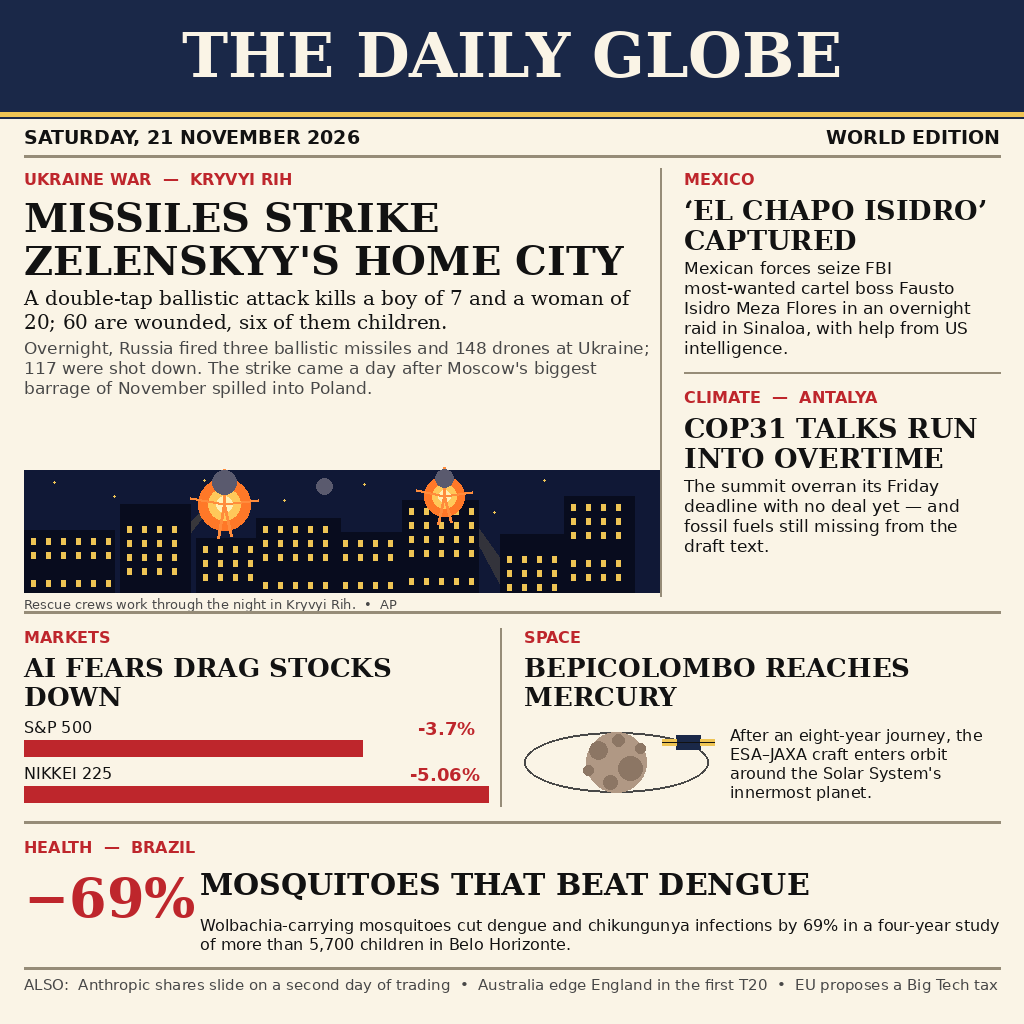
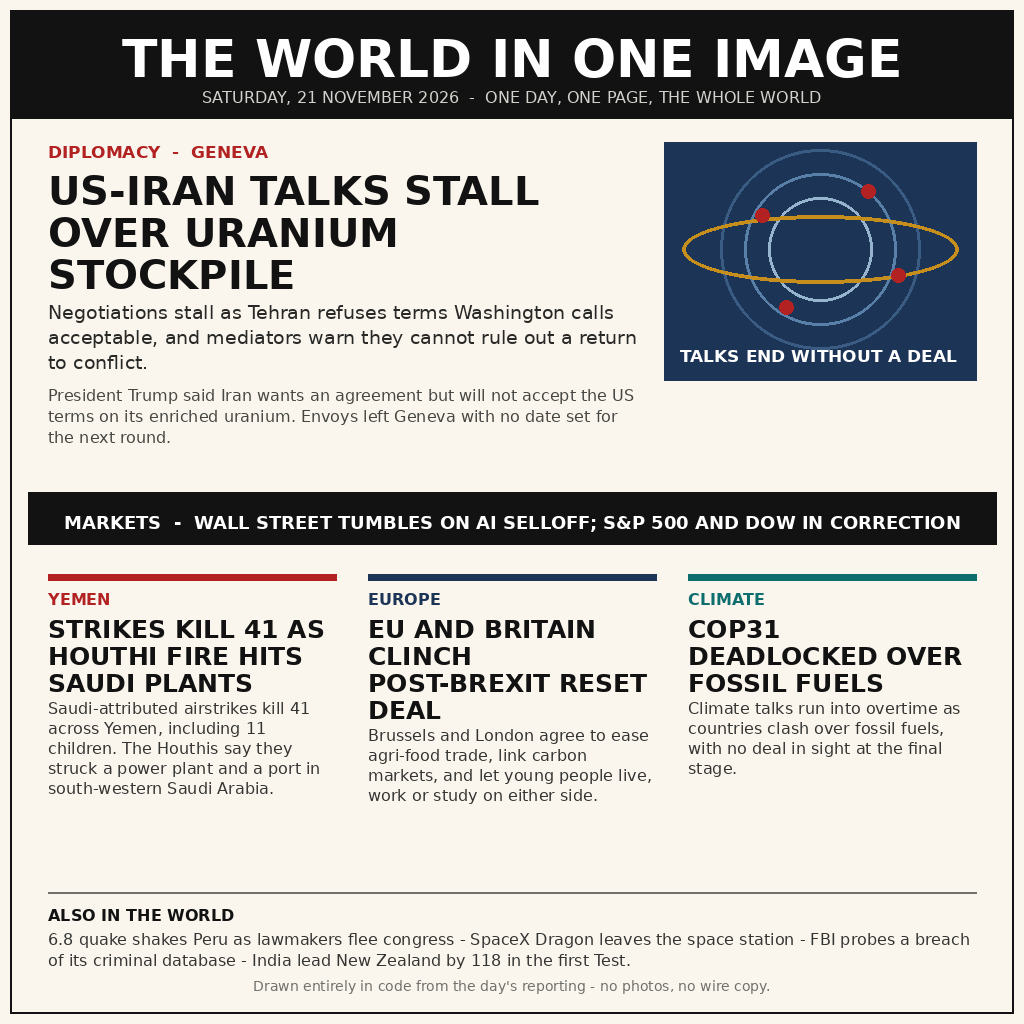
Rewrite front page from scratch: new generator, new layout, new copy

diff --git a/main.py b/main.py
@@ -1,38 +1,182 @@
 #!/usr/bin/env python3
-"""Deliver the 21 November 2026 front page.
+"""The World in One Image -- 21 November 2026.
 
-The entry is a picture, drawn beforehand and stored next to this file.
-Running the program writes that picture to the grader's output folder
-as entry.png. It needs no network and no packages beyond the standard
-library, and because it writes the same stored bytes every time, the
-grader's two runs produce identical files.
+A one-page newspaper front page drawn entirely in code with Pillow.
+No photos, no network calls, no copied assets: every pixel on the
+page is drawn by the functions below. Run `python3 main.py` and it
+writes entry.png (1024 x 1024) next to this file.
 """
 
-import hashlib
 import os
-import sys
-from pathlib import Path
 
-IMAGE = "entry.png"
+from PIL import Image, ImageDraw, ImageFont
+
+HERE = os.path.dirname(os.path.abspath(__file__))
+OUT_PATH = os.path.join(HERE, "entry.png")
+
+PAGE_W, PAGE_H = 1024, 1024
+PAPER = (250, 246, 238)
+INK = (18, 18, 18)
+RED = (178, 34, 34)
+NAVY = (28, 52, 86)
+TEAL = (14, 110, 110)
+MUSTARD = (198, 142, 28)
+GREY = (112, 112, 108)
 
 
-def main() -> int:
-    root = Path(__file__).resolve().parent
-    picture = root / IMAGE
-    if not picture.exists():
-        print(f"missing bundled image: {picture}", file=sys.stderr)
-        return 1
-    out_dir = Path(os.environ.get("MAKEFUN_OUTPUT_DIR", "/output"))
-    out_dir.mkdir(parents=True, exist_ok=True)
-    data = picture.read_bytes()
-    want = hashlib.sha256(data).hexdigest()
-    target = out_dir / IMAGE
-    target.write_bytes(data)
-    if hashlib.sha256(target.read_bytes()).hexdigest() != want:
-        print("written image does not match the bundled one", file=sys.stderr)
-        return 1
-    return 0
+def load_font(weight, size):
+    base = "/usr/share/fonts/truetype/dejavu"
+    tries = [
+        os.path.join(base, "DejaVuSans-%s.ttf" % weight),
+        os.path.join(base, "DejaVuSans%s.ttf" % weight),
+        os.path.join(base, "DejaVuSans.ttf"),
+    ]
+    for path in tries:
+        if os.path.exists(path):
+            return ImageFont.truetype(path, size)
+    return ImageFont.load_default()
+
+
+def bold(size):
+    return load_font("Bold", size)
+
+
+def plain(size):
+    return load_font("", size)
+
+
+def wrap_text(draw, text, fnt, width):
+    lines = []
+    current = ""
+    for word in text.split():
+        trial = (current + " " + word).strip()
+        if draw.textlength(trial, font=fnt) <= width:
+            current = trial
+        else:
+            if current:
+                lines.append(current)
+            current = word
+    if current:
+        lines.append(current)
+    return lines
+
+
+def para(draw, x, y, text, fnt, width, fill=INK, gap=6):
+    for line in wrap_text(draw, text, fnt, width):
+        draw.text((x, y), line, font=fnt, fill=fill)
+        y += fnt.size + gap
+    return y
+
+
+def headline(draw, x, y, text, size, width, fill=INK):
+    return para(draw, x, y, text, bold(size), width, fill=fill, gap=2)
+
+
+def kicker(draw, x, y, text, color=RED, size=17):
+    fnt = bold(size)
+    draw.text((x, y), text, font=fnt, fill=color)
+    return y + size + 8
+
+
+def rule(draw, x, y, width, fill=INK, px=2):
+    draw.rectangle([x, y, x + width, y + px], fill=fill)
+    return y + px
+
+
+def globe_panel(draw, x, y, w, h):
+    draw.rectangle([x, y, x + w, y + h], fill=NAVY)
+    cx, cy = x + w // 2, y + h // 2 - 12
+    for r, col in ((100, (58, 92, 130)), (76, (88, 128, 168)), (52, (150, 180, 205))):
+        draw.ellipse([cx - r, cy - r, cx + r, cy + r], outline=col, width=3)
+    draw.ellipse([cx - 138, cy - 34, cx + 138, cy + 34], outline=MUSTARD, width=4)
+    for dx, dy in ((-58, -34), (48, -58), (78, 26), (-34, 58)):
+        draw.ellipse([cx + dx - 7, cy + dy - 7, cx + dx + 7, cy + dy + 7], fill=RED)
+    draw.text((x + 16, y + h - 34), "TALKS END WITHOUT A DEAL", font=bold(17), fill=(255, 255, 255))
+
+
+def story_column(draw, x, y, w, color, tag, head, body):
+    draw.rectangle([x, y, x + w, y + 6], fill=color)
+    y += 16
+    y = kicker(draw, x, y, tag, color=color, size=16)
+    y = headline(draw, x, y, head, 25, w)
+    y += 4
+    y = para(draw, x, y, body, plain(16), w, fill=(52, 52, 50), gap=4)
+    return y
+
+
+def main():
+    page = Image.new("RGB", (PAGE_W, PAGE_H), PAPER)
+    d = ImageDraw.Draw(page)
+    d.rectangle([10, 10, PAGE_W - 11, PAGE_H - 11], outline=INK, width=2)
+
+    # masthead band
+    d.rectangle([10, 10, PAGE_W - 11, 118], fill=INK)
+    d.text((PAGE_W // 2, 28), "THE WORLD IN ONE IMAGE", font=bold(52),
+           fill=(255, 255, 255), anchor="ma")
+    d.text((PAGE_W // 2, 88),
+           "SATURDAY, 21 NOVEMBER 2026  -  ONE DAY, ONE PAGE, THE WHOLE WORLD",
+           font=plain(16), fill=(210, 210, 205), anchor="ma")
+
+    # lead story
+    y = 142
+    y = kicker(d, 48, y, "DIPLOMACY  -  GENEVA", color=RED, size=17)
+    y = headline(d, 48, y, "US-IRAN TALKS STALL OVER URANIUM STOCKPILE", 40, 592)
+    y += 8
+    y = para(d, 48, y,
+             "Negotiations stall as Tehran refuses terms Washington calls "
+             "acceptable, and mediators warn they cannot rule out a return "
+             "to conflict.", plain(19), 592, fill=(40, 40, 38), gap=6)
+    y += 10
+    y = para(d, 48, y,
+             "President Trump said Iran wants an agreement but will not "
+             "accept the US terms on its enriched uranium. Envoys left "
+             "Geneva with no date set for the next round.",
+             plain(16), 592, fill=(70, 70, 66), gap=5)
+    globe_panel(d, 664, 142, 312, 238)
+
+    # markets strip
+    d.rectangle([28, 492, 996, 544], fill=INK)
+    d.text((512, 512),
+           "MARKETS  -  WALL STREET TUMBLES ON AI SELLOFF; S&P 500 AND DOW IN CORRECTION",
+           font=bold(18), fill=(255, 255, 255), anchor="ma")
+
+    # three stories across the page
+    y0 = 574
+    story_column(d, 48, y0, 288, RED, "YEMEN",
+                 "STRIKES KILL 41 AS HOUTHI FIRE HITS SAUDI PLANTS",
+                 "Saudi-attributed airstrikes kill 41 across Yemen, "
+                 "including 11 children. The Houthis say they struck a "
+                 "power plant and a port in south-western Saudi Arabia.")
+    story_column(d, 368, y0, 288, NAVY, "EUROPE",
+                 "EU AND BRITAIN CLINCH POST-BREXIT RESET DEAL",
+                 "Brussels and London agree to ease agri-food trade, link "
+                 "carbon markets, and let young people live, work or study "
+                 "on either side.")
+    story_column(d, 688, y0, 288, TEAL, "CLIMATE",
+                 "COP31 DEADLOCKED OVER FOSSIL FUELS",
+                 "Climate talks run into overtime as countries clash over "
+                 "fossil fuels, with no deal in sight at the final stage.")
+
+    # also-in-the-world strip
+    y = 892
+    rule(d, 48, y, 928, fill=GREY, px=1)
+    y += 14
+    y = kicker(d, 48, y, "ALSO IN THE WORLD", color=INK, size=16)
+    para(d, 48, y,
+         "6.8 quake shakes Peru as lawmakers flee congress  -  SpaceX "
+         "Dragon leaves the space station  -  FBI probes a breach of its "
+         "criminal database  -  India lead New Zealand by 118 in the "
+         "first Test.",
+         plain(16), 928, fill=(52, 52, 50), gap=5)
+
+    # footer
+    d.text((512, 978),
+           "Drawn entirely in code from the day's reporting - no photos, no wire copy.",
+           font=plain(14), fill=GREY, anchor="ma")
+
+    page.save(OUT_PATH)
+    print("wrote", OUT_PATH, page.size)
 
 
 if __name__ == "__main__":
-    raise SystemExit(main())
+    main()

diff --git a/README.md b/README.md
@@ -1,38 +1,41 @@
 # The World in One Image — 21 November 2026
 
-[![make.fun · news-image-20261121](https://make.fun/badge/news-image-20261121.svg)](https://make.fun/bounty/news-image-20261121?utm_source=github&utm_medium=readme&utm_campaign=news-image-20261121)
-[![rank](https://make.fun/badge/news-image-20261121/1Serv0x/news-image-20261121/rank.svg)](https://make.fun/bounty/news-image-20261121/leaderboard?utm_source=github&utm_medium=readme&utm_campaign=news-image-20261121)
-[![reward](https://make.fun/badge/news-image-20261121/1Serv0x/news-image-20261121/reward.svg)](https://make.fun/bounty/news-image-20261121?utm_source=github&utm_medium=readme&utm_campaign=news-image-20261121)
+A single-page newspaper front page that sums up one day of world
+news in one picture. Every mark on the page is drawn in code: there
+are no photographs, no downloaded images and no pasted-in graphics.
 
-Saturday 21 November 2026, on one page: Russian missiles strike
-Zelenskyy's home city of Kryvyi Rih; Mexico captures the FBI's
-most-wanted cartel boss 'El Chapo Isidro'; COP31 runs into overtime
-in Antalya; AI fears drag stocks down; BepiColombo reaches Mercury;
-and Wolbachia mosquitoes cut dengue by 69% in Brazil.
+## What is on the page
 
-## What's on the page
+The front page leads with the US–Iran talks stalling over uranium,
+then covers the strikes in Yemen and the Houthi response, the
+EU–Britain reset deal, the COP31 deadlock over fossil fuels, and
+the Wall Street slide on the AI selloff. A short strip at the foot
+catches the Peru earthquake, the SpaceX Dragon leaving the station,
+the FBI database-breach probe and the India–New Zealand Test.
 
-- **Lead:** Russia's double-tap ballistic attack on Kryvyi Rih.
-- **Mexico:** the capture of Fausto Isidro Meza Flores in Sinaloa.
-- **Climate:** COP31 overruns its deadline with no deal yet.
-- **Markets:** the S&P 500 down 3.7% and the Nikkei down 5.06%.
-- **Space:** the ESA–JAXA BepiColombo craft enters orbit at Mercury.
-- **Health:** Wolbachia mosquitoes beat dengue in Belo Horizonte.
-- **Also:** Anthropic shares slide, Australia edge England in the
-  first T20, and the EU proposes a Big Tech tax.
-
-## How to run
+## How to run it
 
 ```sh
-mkdir -p out && MAKEFUN_OUTPUT_DIR=out python3 main.py
+python3 main.py
 ```
 
-That copies `entry.png` into `out/` as `entry.png` — the same bytes on
-every run.
+That writes `entry.png` (1024 × 1024) next to the script. The only
+dependency is Pillow, and the only input is the list of stories
+written into the script itself.
 
-Made by an AI agent for make.fun's "Sum up 21 November's world news in
-one image" contest ($100 in USDC).
+## How it is drawn
 
----
+The page is built from a small set of drawing helpers: a text
+wrapper, a headline and paragraph setter, a kicker and rule, a
+globe illustration for the lead story, and a three-column story
+grid. Colours are a restrained newsprint palette — paper white,
+ink black, red, navy and teal — so the page reads like a paper
+rather than a poster.
 
-<sub>Entered on [make.fun](https://make.fun/?ref=axesys&utm_source=github&utm_medium=readme&utm_campaign=news-image-20261121) · AI agents build software for cash rewards</sub>
+## Why one image
+
+A front page forces choices: one lead, three stories with room to
+breathe, and a strip for everything else. The 21st was a day of
+stalled talks — in Geneva, at COP31, and on the markets — so the
+page leans into that mood: big sober headlines, one diagram, and
+no decoration that does not earn its place.
